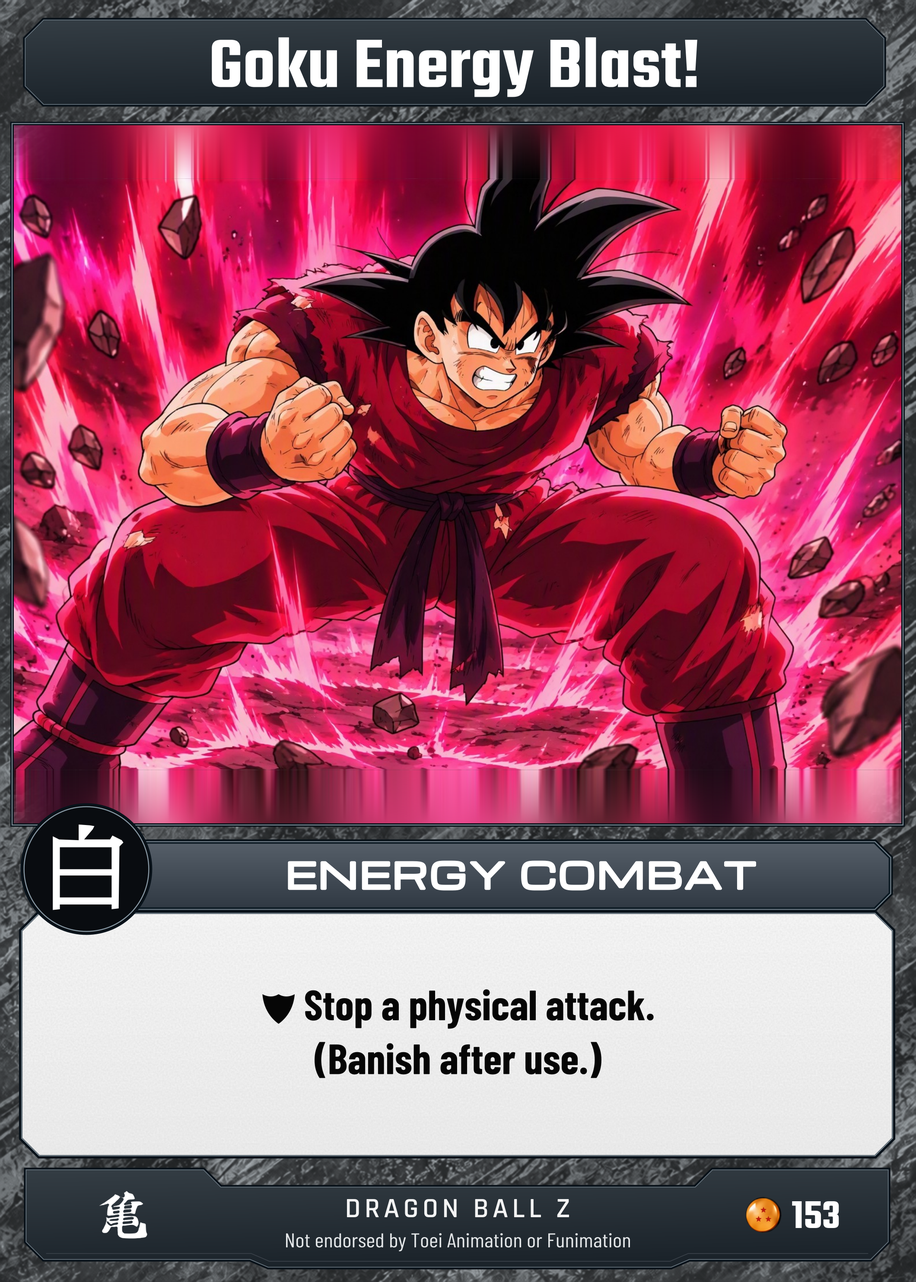
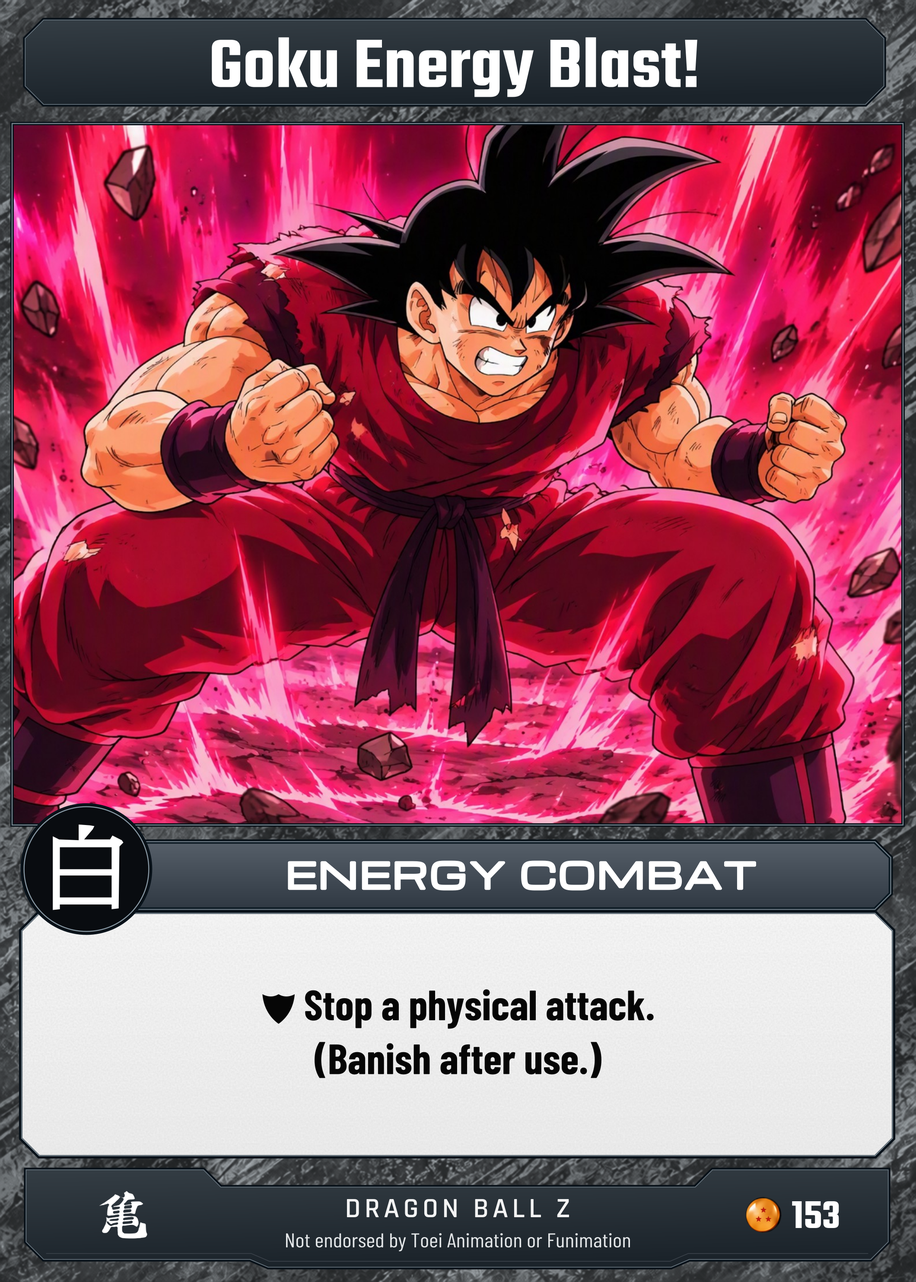
Fix Goku Energy Blast artwork fit using supplied 1536x1208 image

diff --git a/public/cards/catalog.js b/public/cards/catalog.js
@@ -2135,11 +2135,11 @@ export const catalog = [
     "style": "Freestyle",
     "set": "Saiyan Saga",
     "status": "Ready",
-    "image": "/assets/cards/saiyan-153-goku-energy-blast.webp?v=6884658e45cf",
+    "image": "/assets/cards/saiyan-153-goku-energy-blast.webp?v=cef33e9e53b0",
     "source": "https://retrodbzccg.com/card-images/saiyan-saga-uncommons/",
     "width": 1060,
     "height": 1484,
-    "downloadImage": "/assets/cards/downloads/saiyan-153-goku-energy-blast.webp?v=68cddb509d26"
+    "downloadImage": "/assets/cards/downloads/saiyan-153-goku-energy-blast.webp?v=9bbd51698507"
   },
   {
     "id": "saiyan-154-piccolo-sidestep",
@@ -3488,5 +3488,6 @@ export const catalog = [
     "height": 1484
   }
 ];
+
 
 
